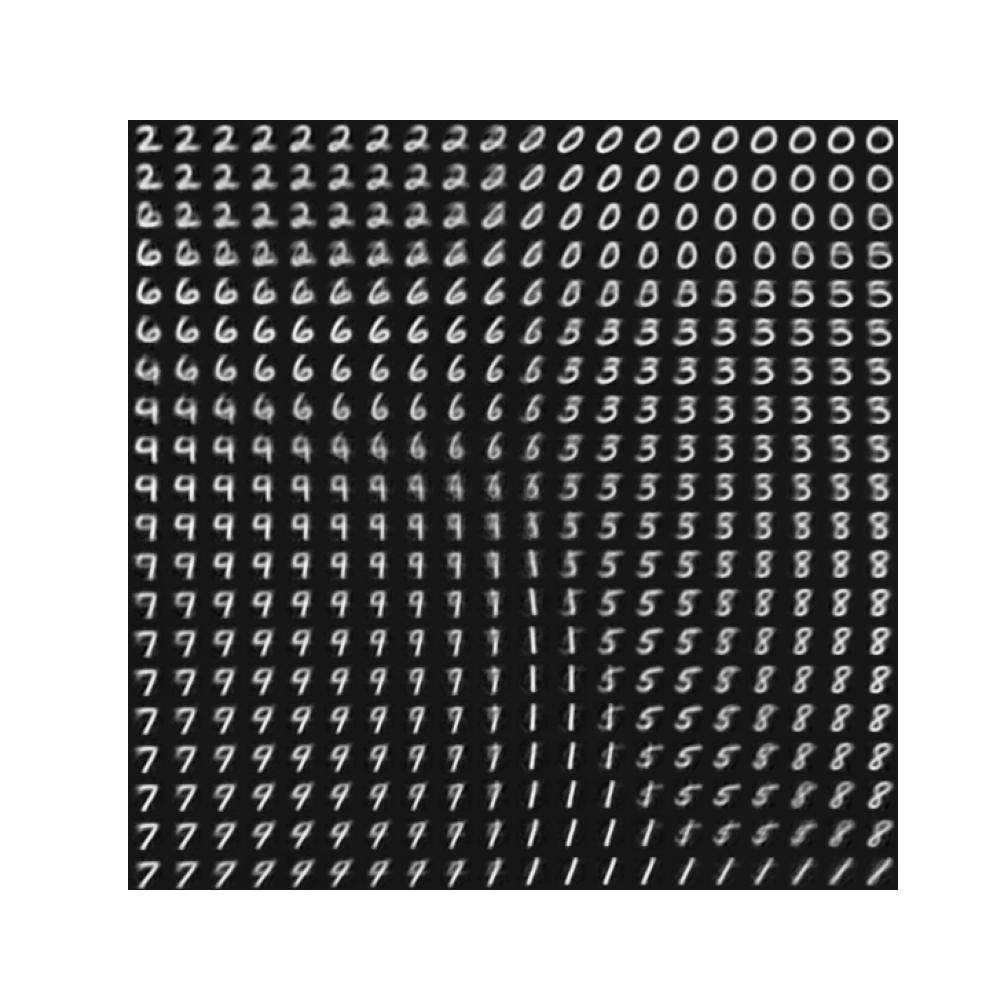
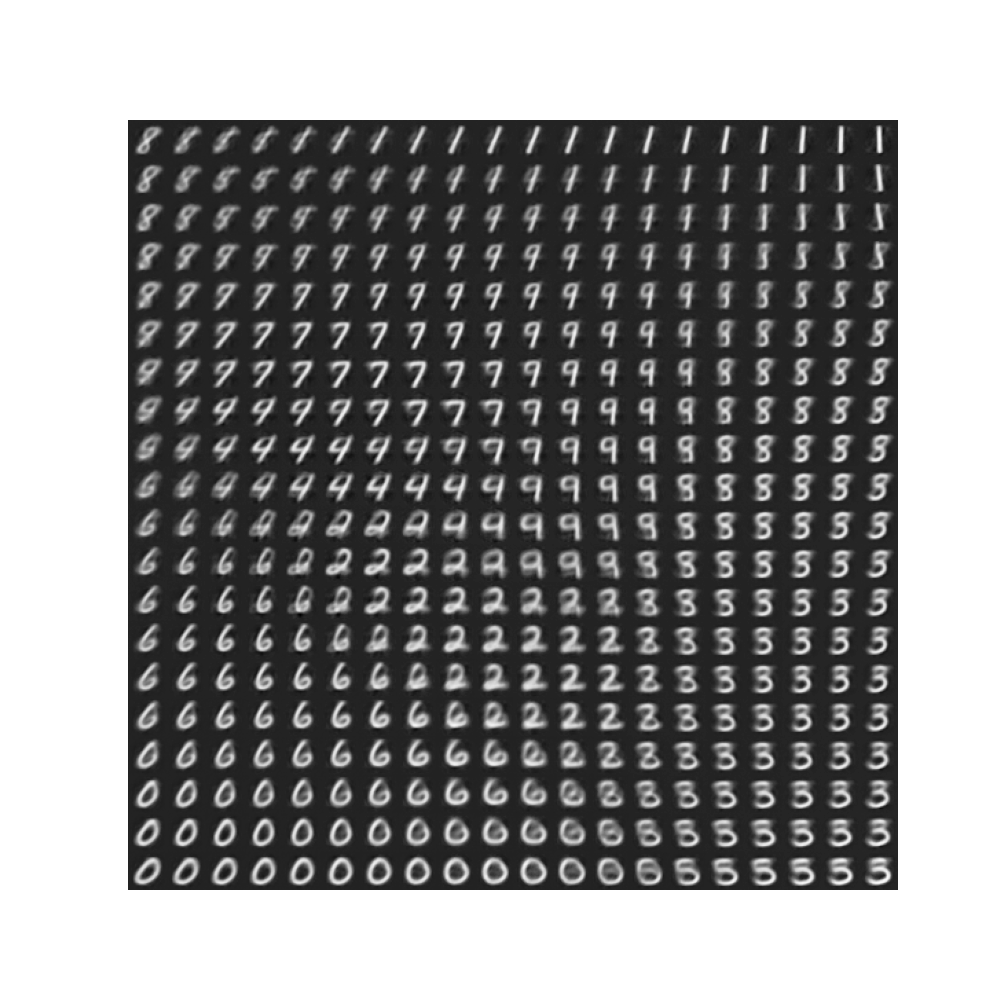
done with experiments

Changed region(s): [[0.124, 0.124, 0.899, 0.899]]

diff --git a/src/utils.py b/src/utils.py
@@ -5,7 +5,7 @@ import seaborn as sns
 import tensorflow as tf
 import tensorflow_probability as tfp
 import matplotlib.pyplot as plt
-from sklearn.manifold import TSNE
+from sklearn.manifold import TSNE,Isomap
 from sklearn.model_selection import StratifiedKFold
 import warnings
 
@@ -15,7 +15,7 @@ warnings.filterwarnings("ignore")
 def visualize_latent_space(z_mu_list,label_list):
 
     # cannot work on full training samples so get a small and stratified portion
-    skf = StratifiedKFold(n_splits=5)
+    skf = StratifiedKFold(n_splits=20)
     for _, test_index in skf.split(z_mu_list, label_list):
         mini_z_mu_list, mini_label_list = z_mu_list[test_index], label_list[test_index]
         break

diff --git a/src/main.py b/src/main.py
@@ -27,7 +27,7 @@ def prepare_data():
 
 # closed form kl loss computation between variational posterior q(z|x) and unit Gaussian prior p(z) 
 def kl_loss(z_mu,z_rho):
-    sigma_squared = tf.math.softplus(z_rho) ** 2
+    sigma_squared = tf.math.softplus(z_rho) ** 2 # MAKE THIS ON
     kl_1d = -0.5 * (1 + tf.math.log(sigma_squared) - z_mu ** 2 - sigma_squared)
 
     # sum over sample dim, average over batch dim
@@ -116,7 +116,7 @@ def train(latent_dim,beta,epochs,train_ds,x_test,dataset_mean,dataset_std):
 
 if __name__ == '__main__':
 
-    beta = 15.
+    beta = 12.
     epochs = 15
     latent_dim = 2
 

diff --git a/README.md b/README.md
@@ -1,2 +1,24 @@
 # simple-vae
-PyTorch and Tensorflow implementations of Variational Autoencoders
+Tensorflow implementation of Variational Autoencoder concept
+
+### Model
+Both encoder and decoder consist of two fully connected hidden layers. Various ways of VAE implementation is possible in TF, but I computed both losses after forward pass, which means model provides both encoder and decoder outputs.
+Training is done on MNIST training set, using Adam optimizer with learning rate 1e-3 for maximum of 15 epochs. Depending on latent channel capacity, overfitting is possible, so early stopping via visual inspection is advised.
+I experimented with different formulations of re-parametrization trick and found that $z = \mu + \log(1+\exp(\rho)) \odot  \epsilon$ is more stable than $z = \mu + \sigma  \odot  \epsilon$, although both produce nice outcomes. 
+
+### Usage
+```
+cd src
+python main.py
+```
+VAE settings ($\beta$ and latent dimension) can easily be modified inside main.py.
+
+
+### Experiments
+
+In experiments below, latent space visualization is obtained by TSNE on encoder outputted means for each sample in the training set.
+
+#### KL-Reconstruction Loss Trade-off
+$\beta$ = 0.0, optimising only reconstruction loss: no kl divergence so latent space idea is useless because encoder can put each digit in the space separate places with very small variations. test images can perfectly reconstructed even if they are not used in training. (2d_fold, latent_space, new_samples, test samples) comment on the plots.
+$\beta$ = 200.0, optimising only kl loss: without even caring reconstruction quality, all samples will be encoded to have unit gaussian parameters, thus in the latent space no label(or similarity) based clustering will be observed. comment on the plots.
+$\beta$ = 12.0, both clustering nature of reconstruction loss and dense packing nature of kl loss observed.
